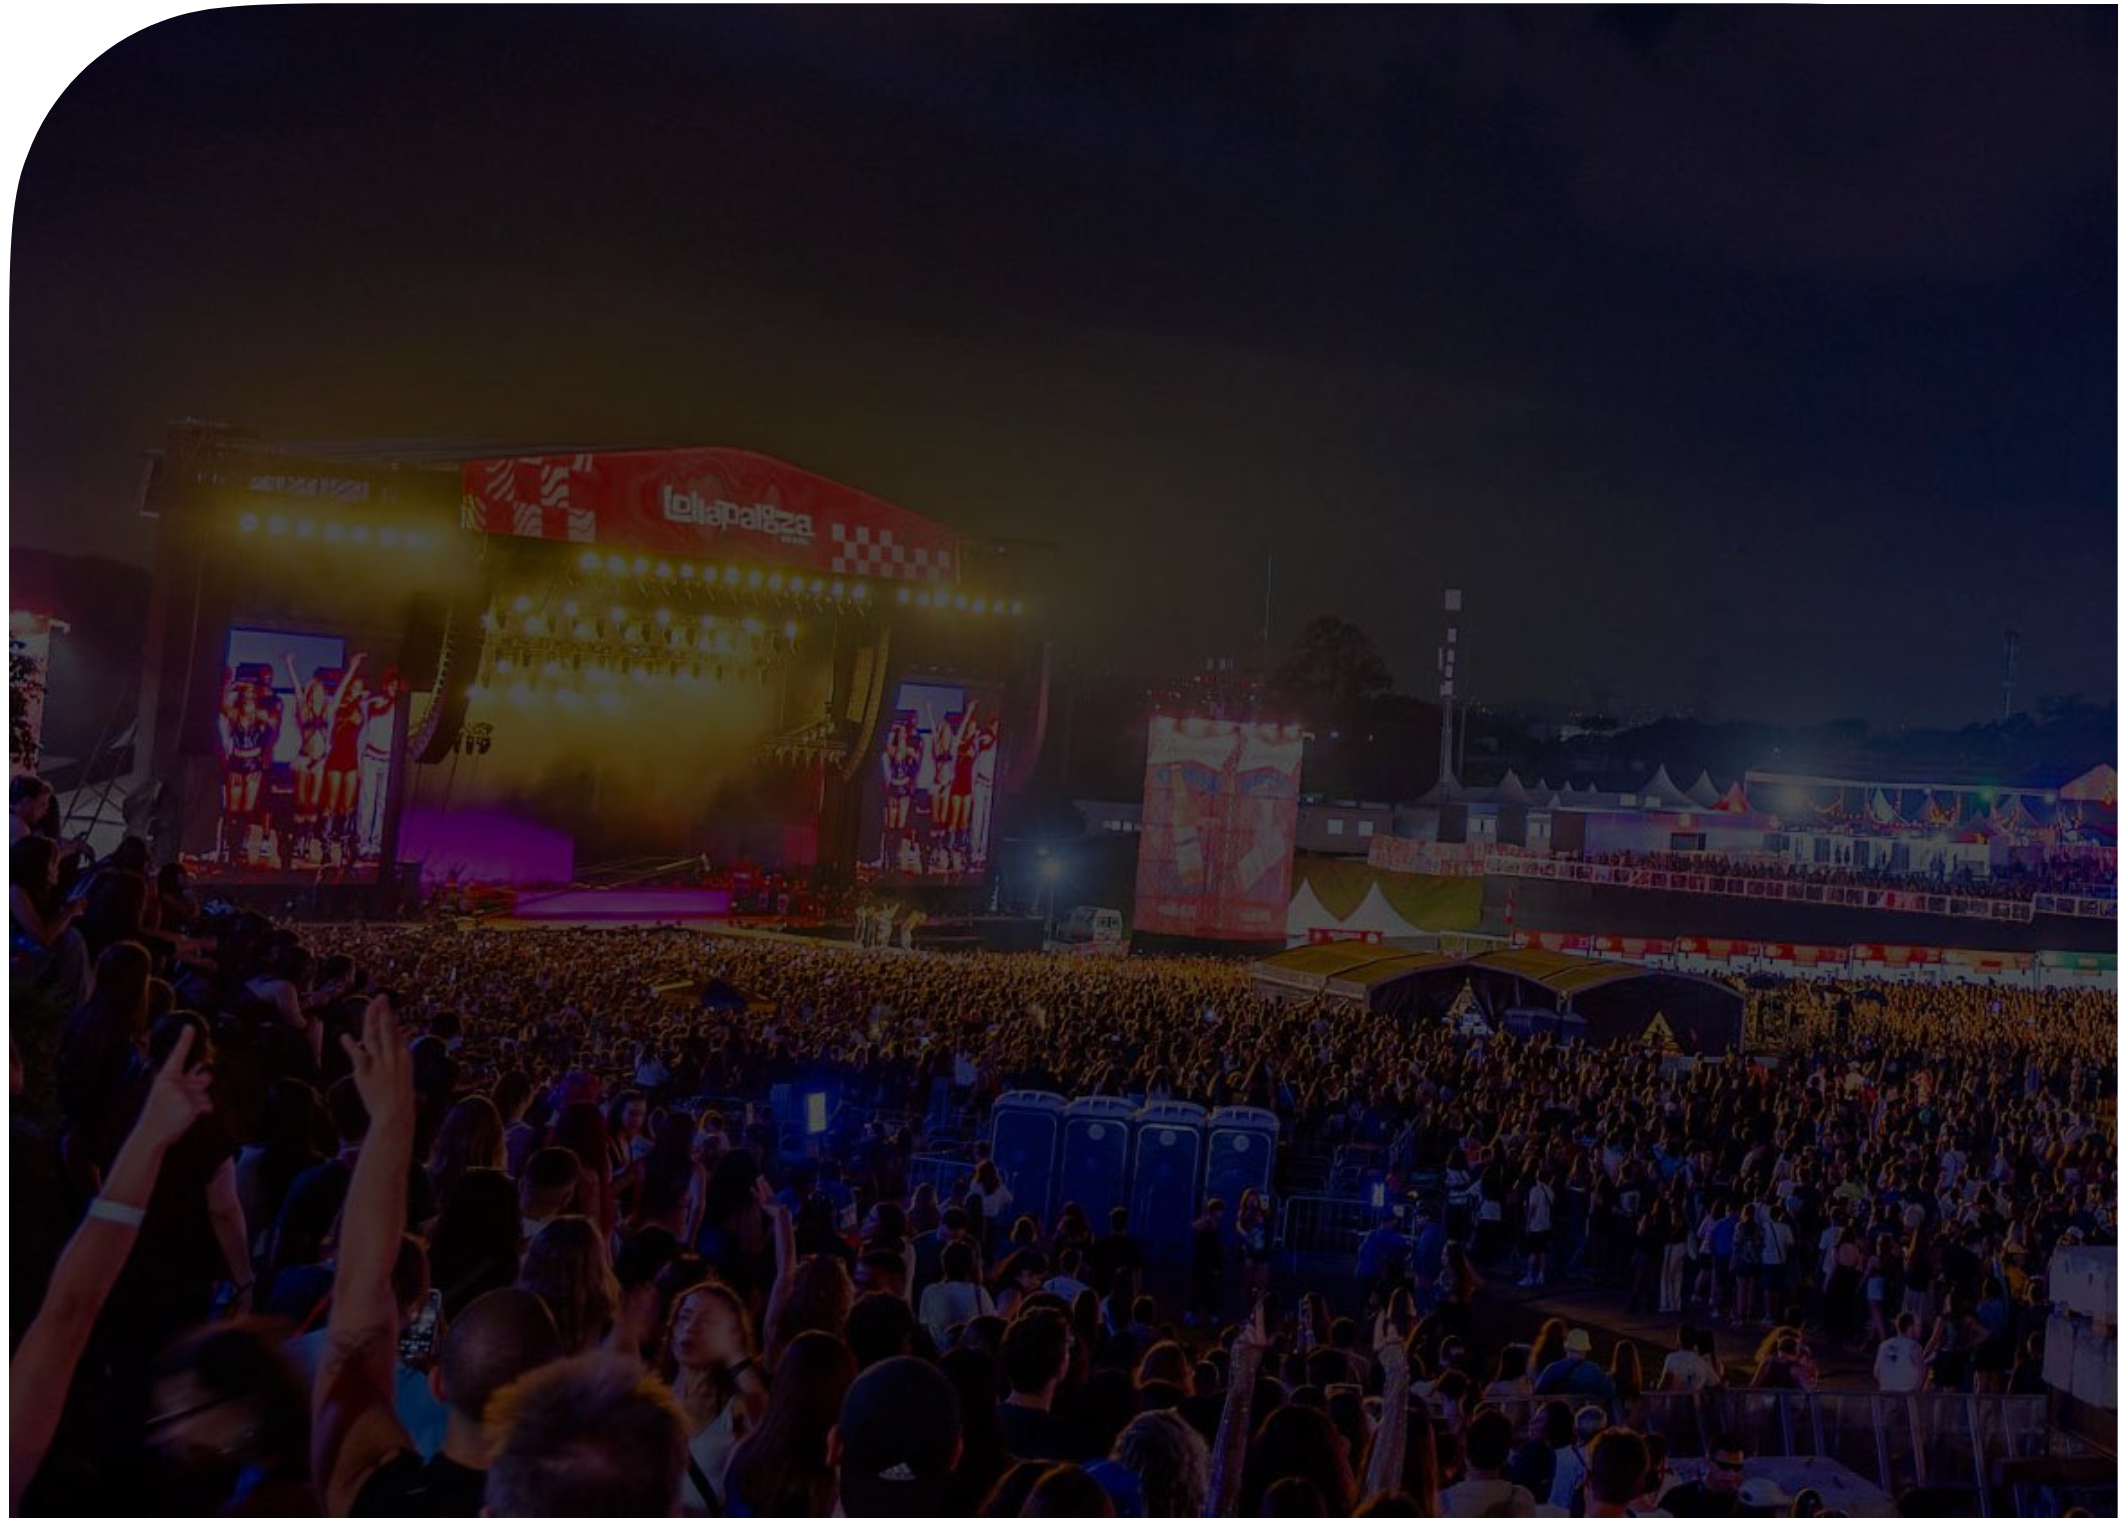
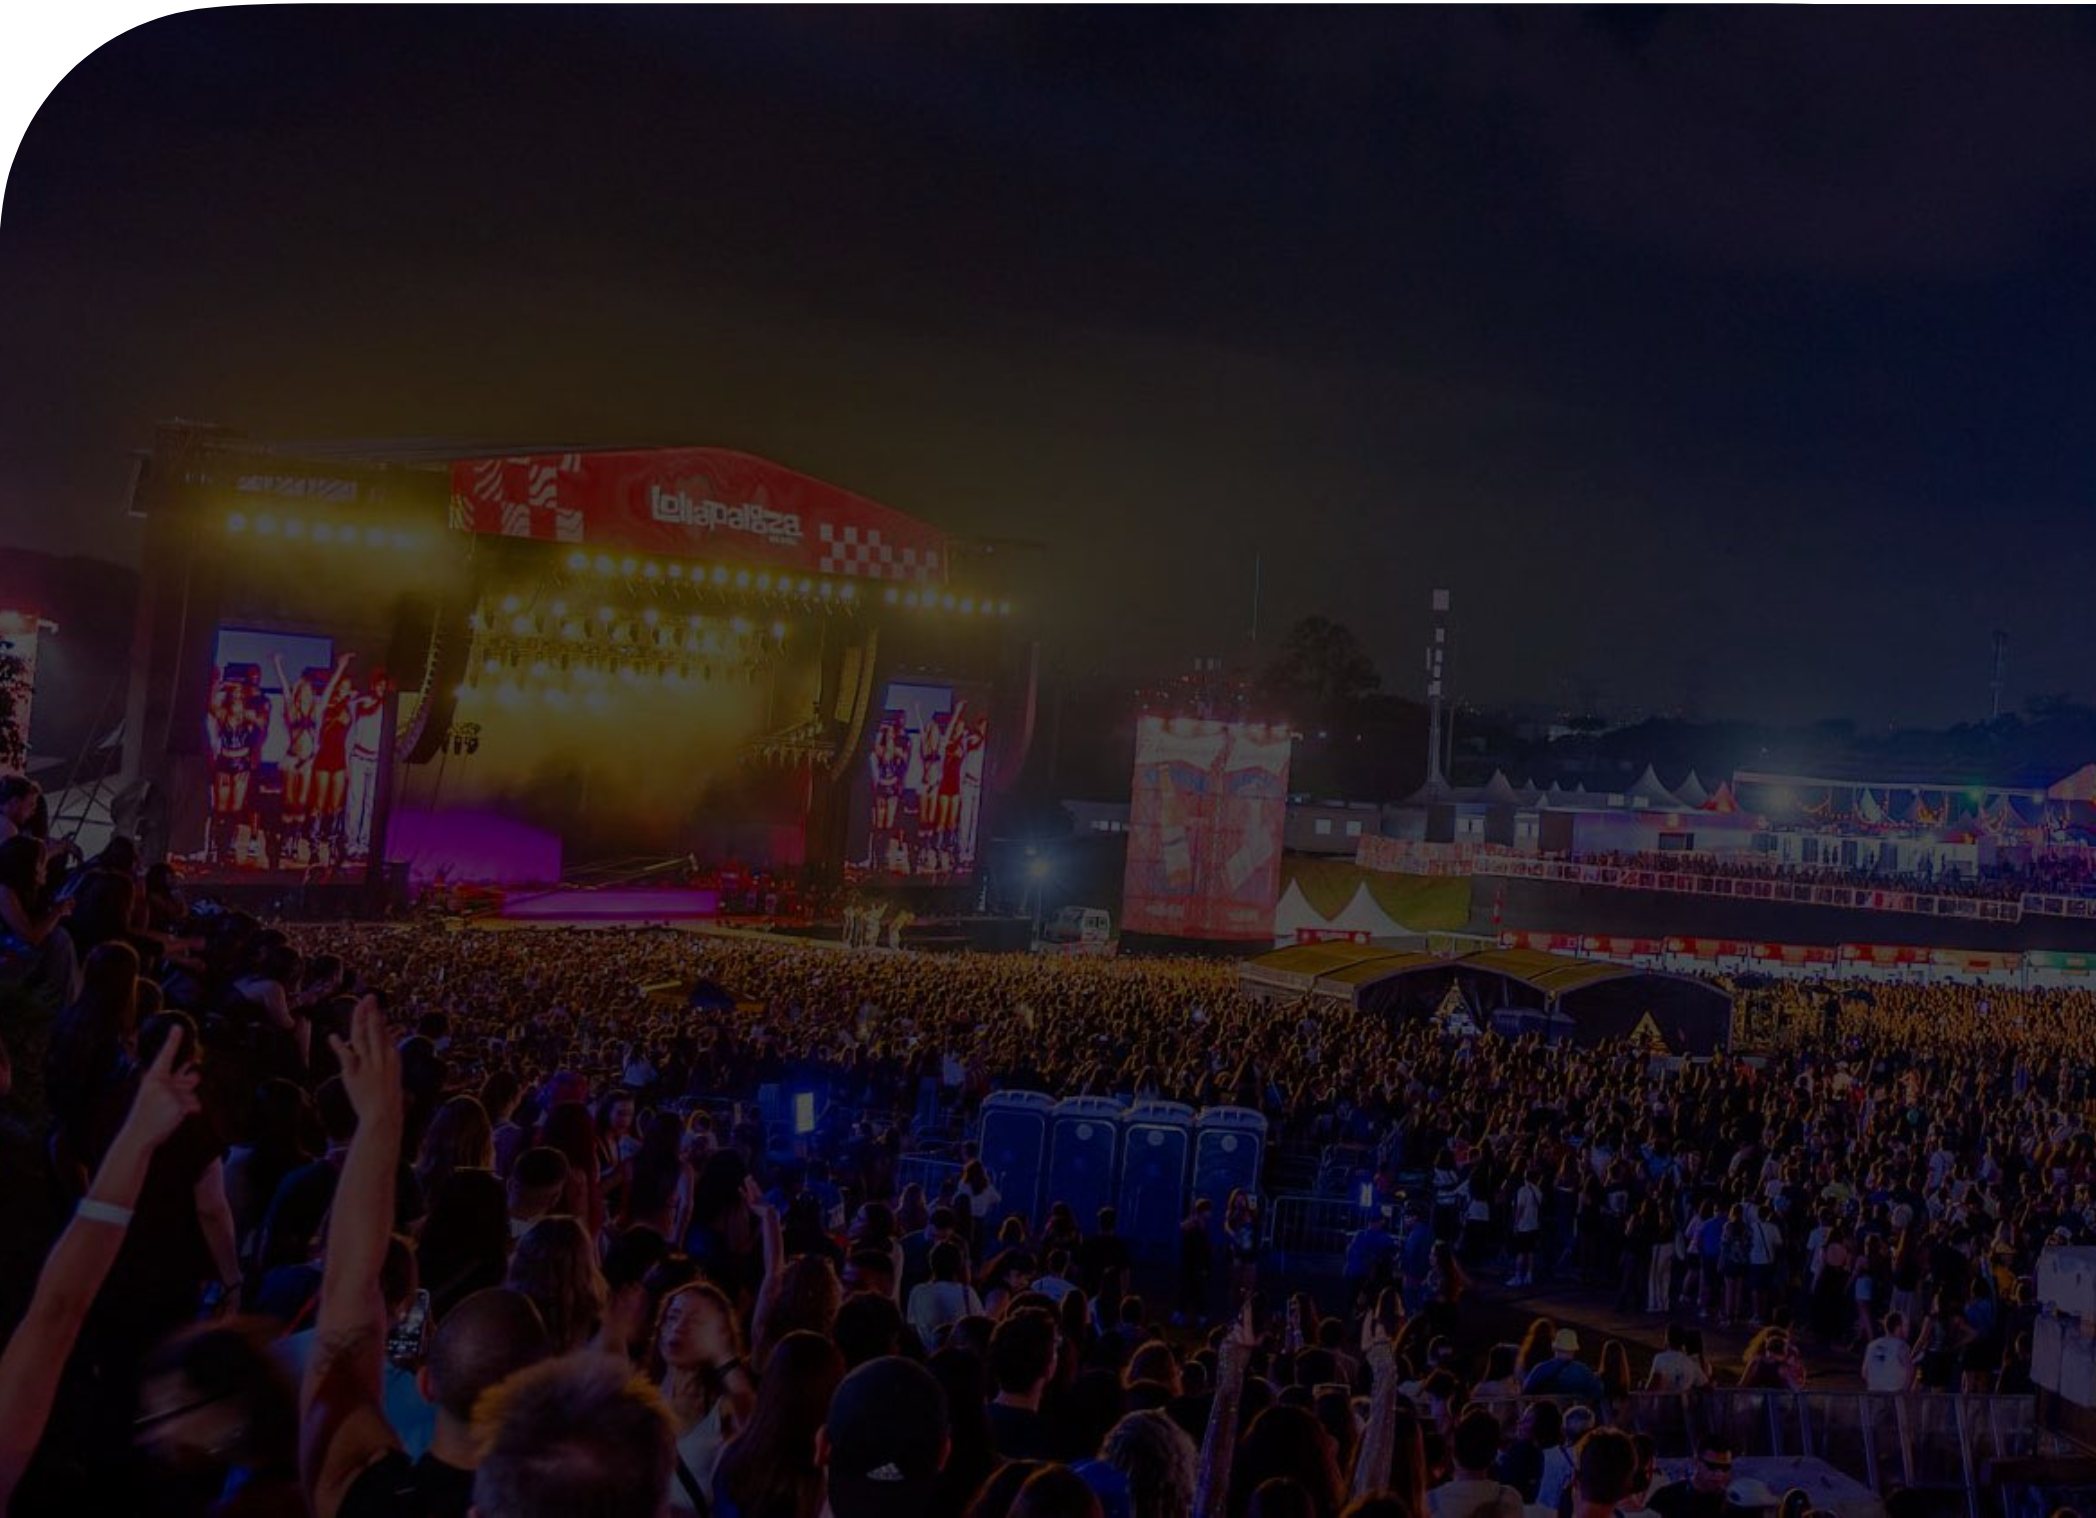
teste remove fundo

diff --git a/emailmkt-rosa.html b/emailmkt-rosa.html
@@ -246,7 +246,7 @@
      
     /* Gmail apps (iOS/Android) – hack via <u> marker e wrapper .body */
     u + .body .force-light {
-      background-color: #1E1E1E !important;
+      background-color: #000000 !important;
         background-image: url('https://vimedia-lollapalooza-partner.vercel.app/emailmkt-rosa/bg.png') !important;
       background-repeat: repeat !important;
       background-size: auto !important;
@@ -274,7 +274,7 @@
     /* Clientes que respeitam prefers-color-scheme */
     @media (prefers-color-scheme: dark) {
       .force-light {
-        background-color: #1E1E1E !important;
+        background-color: #000000 !important;
         background-image: url('https://vimedia-lollapalooza-partner.vercel.app/emailmkt-rosa/bg.gif') !important;
         background-repeat: repeat !important;
         background-size: auto !important;
@@ -304,12 +304,12 @@
         <!-- Email Container - Max 600px para melhor compatibilidade -->
         <table role="presentation" class="email-container force-light" cellspacing="0" cellpadding="0" border="0"
           width="100%"
-          style="max-width: 600px; width: 100%; border-radius: 100px 0 0 0; -webkit-border-radius: 100px 0 0 0; overflow: hidden;">
+          style="max-width: 600px; width: 100%; overflow: hidden;">
 
           <!-- ========== HEADER + HEADLINE + DESCRIÇÃO COM FUNDO TOPO ========== -->
           <tr>
             <td class="mobile-padding"
-              style="padding: 40px 24px 24px 24px; width: 100%; background-color: #1E1E1E; background-image: url('https://vimedia-lollapalooza-partner.vercel.app/topo.png'); background-repeat: no-repeat; background-size: cover;">
+              style="padding: 40px 24px 24px 24px; width: 100%; background-image: url('https://vimedia-lollapalooza-partner.vercel.app/topo.png'); background-repeat: no-repeat; background-size: cover;">
               <table role="presentation" class="header-inline" cellspacing="0" cellpadding="0" border="0" width="100%" style="margin-top: 45px;">
                 <tr>
                   <!-- Logo VI -->
@@ -363,8 +363,8 @@
 
           <!-- ========== LOGO VI MEDIA PARTNER CLUB ========== -->
           <tr>
-            <td align="center" bgcolor="#1E1E1E"
-                style="padding: 40px 20px; background-image: url('https://vimedia-lollapalooza-partner.vercel.app/bg.png'); background-repeat: repeat;">
+            <td align="center" bgcolor="#000000"
+              style="padding: 40px 20px; background-image: url('https://vimedia-lollapalooza-partner.vercel.app/bg.png'); background-repeat: repeat;">
               <img class="partner-logo" src="https://mkt.letswork.com.br/media/images/parter.png"
                 alt="VI MEDIA PARTNER CLUB" width="280"
                 style="display: block; max-width: 280px; width: 100%; height: auto;">
@@ -372,8 +372,8 @@
           </tr>
 
           <tr>
-            <td align="center" class="mobile-padding" bgcolor="#1E1E1E"
-                style="padding: 0 30px 50px 30px; background-image: url('https://vimedia-lollapalooza-partner.vercel.app/bg.png'); background-repeat: repeat;">
+            <td align="center" class="mobile-padding" bgcolor="#000000"
+              style="padding: 0 30px 50px 30px; background-image: url('https://vimedia-lollapalooza-partner.vercel.app/bg.png'); background-repeat: repeat;">
               <img src="https://vimedia-lollapalooza-partner.vercel.app/circulo.png" alt="Benefícios VI MEDIA Partner Club"
                 src="https://vimedia-lollapalooza-partner.vercel.app/circulo.png" style="display: block; max-width: 540px; width: 100%; height: auto;">
             </td>
@@ -381,8 +381,8 @@
 
           <!-- ========== SEÇÃO DE PASSOS ========== -->
           <tr>
-            <td class="mobile-padding" bgcolor="#1E1E1E"
-                style="padding: 20px 40px 30px 40px; background-image: url('https://vimedia-lollapalooza-partner.vercel.app/bg.png'); background-repeat: repeat;">
+            <td class="mobile-padding" bgcolor="#000000"
+              style="padding: 20px 40px 30px 40px; background-image: url('https://vimedia-lollapalooza-partner.vercel.app/bg.png'); background-repeat: repeat;">
               <h3 class="subheadline-mobile"
                 style="margin: 0 0 20px 0; font-size: 22px; font-weight: 800; color: #FF6B7A; line-height: 1.3; font-family: Arial, Helvetica, sans-serif;">
                 Para fazer parte do VI MEDIA Partner Club agora, é só seguir estes passos:
@@ -395,8 +395,8 @@
 
           <!-- ========== QR CODE ========== -->
           <tr>
-            <td align="center" class="mobile-padding" bgcolor="#1E1E1E"
-                style="padding: 30px 40px 20px 40px; background-image: url('https://vimedia-lollapalooza-partner.vercel.app/bg.png'); background-repeat: repeat;">
+            <td align="center" class="mobile-padding" bgcolor="#000000"
+              style="padding: 30px 40px 20px 40px; background-image: url('https://vimedia-lollapalooza-partner.vercel.app/bg.png'); background-repeat: repeat;">
               <a href="https://wa.me/5511992338632?text=Oi%20Gostaria%20de%20entrar%20no%20Partner%20Club" target="_blank" style="display: inline-block; text-decoration: none;">
                 <img class="qr-code" src="https://mkt.letswork.com.br/media/images/qrcode.png" alt="QR Code WhatsApp"
                   width="220" height="220"
@@ -442,12 +442,12 @@
 
           <!-- ========== FOOTER COM MEIA ELIPSE ========== -->
           <tr>
-            <td align="center" bgcolor="#1e1e1e"
-                style="padding: 0; background-image: url('https://vimedia-lollapalooza-partner.vercel.app/bg.png'); background-repeat: repeat;">
+            <td align="center" bgcolor="#000000"
+              style="padding: 0; background-image: url('https://vimedia-lollapalooza-partner.vercel.app/bg.png'); background-repeat: repeat;">
               <!-- Meia elipse como imagem hospedada -->
               <table role="presentation" cellspacing="0" cellpadding="0" border="0" width="100%">
                 <tr>
-                  <td align="center" bgcolor="#1e1e1e"
+                    <td align="center" bgcolor="#000000"
                       style="padding: 0; background-image: url('bg.png'); background-repeat: repeat;">
                     <img src="https://vimedia-lollapalooza-partner.vercel.app/footer-ellipse.png" alt="" width="600"
                       src="https://vimedia-lollapalooza-partner.vercel.app/footer-ellipse.png" style="display: block; width: 100%; max-width: 600px; height: auto;">

diff --git a/versao-azul/emailmkt-azul.html b/versao-azul/emailmkt-azul.html
@@ -322,12 +322,12 @@
         <!-- Email Container - Max 600px para melhor compatibilidade -->
         <table role="presentation" class="email-container force-light" cellspacing="0" cellpadding="0" border="0"
           width="100%"
-          style="max-width: 600px; width: 100%; border-radius: 100px 0 0 0; -webkit-border-radius: 100px 0 0 0; overflow: hidden;">
+          style="max-width: 600px; width: 100%; overflow: hidden;">
 
           <!-- ========== HEADER + HEADLINE + DESCRIÇÃO COM FUNDO TOPO ========== -->
           <tr>
             <td class="mobile-padding"
-                          style="padding: 40px 24px 24px 24px; width: 100%; background-color: #000000; background-image: url('https://vimedia-lollapalooza-partner.vercel.app/versao-azul/topo.png'); background-repeat: no-repeat; background-size: cover;">
+                          style="padding: 40px 24px 24px 24px; width: 100%; background-image: url('https://vimedia-lollapalooza-partner.vercel.app/versao-azul/topo.png'); background-repeat: no-repeat; background-size: cover; background-color: transparent !important;">
               <table role="presentation" class="header-inline" cellspacing="0" cellpadding="0" border="0" width="100%" style="margin-top: 45px;">
                 <tr>
                   <!-- Logo VI -->
